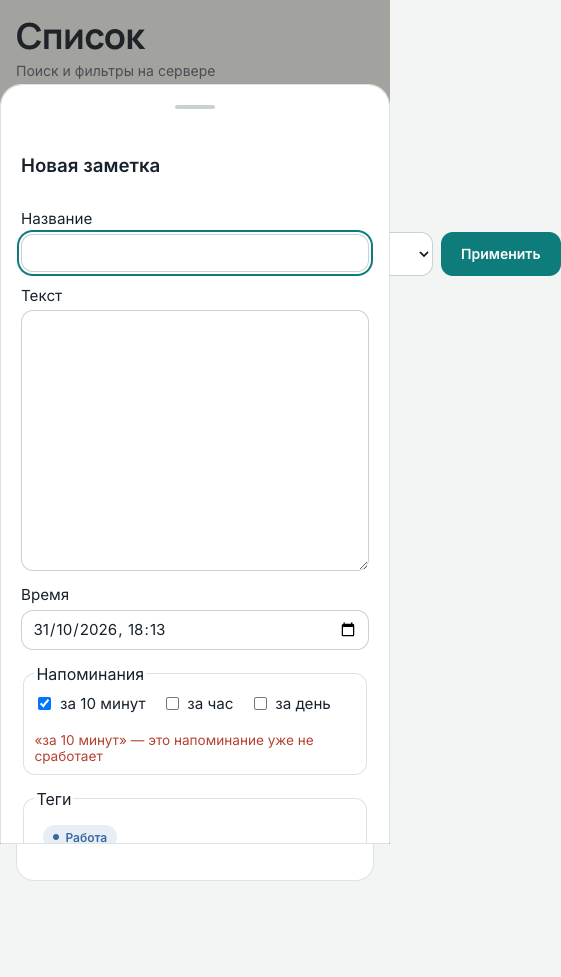
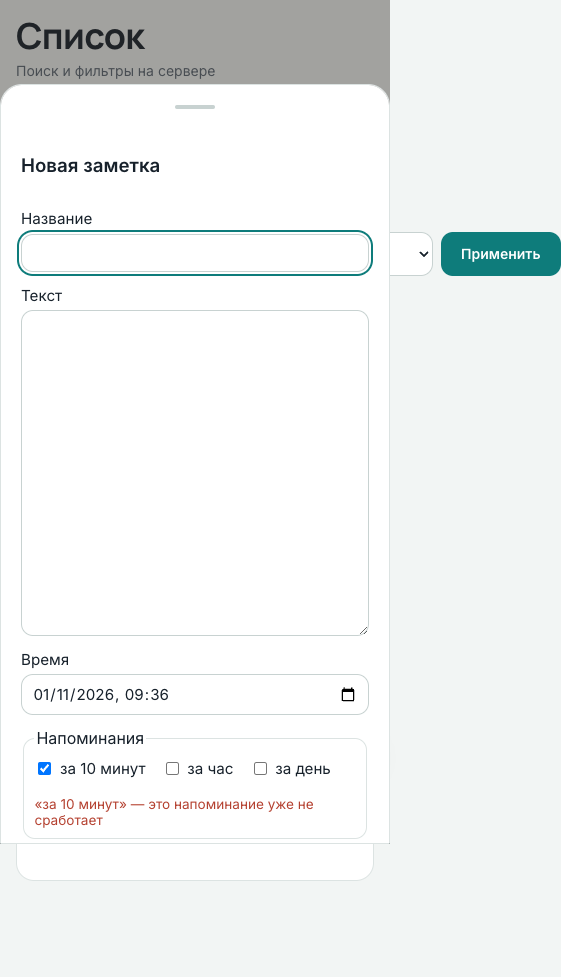
M11.1: STATUS — 71/43 passed, диаг-скрин календаря

Changed region(s): [[0.0303, 0.5834, 0.6667, 0.8598]]

diff --git a/STATUS.md b/STATUS.md
@@ -1,6 +1,6 @@
 # STATUS
 
-Обновляется в конце каждого этапа. Последнее обновление: 2026-11-01 14:50 +06.
+Обновляется в конце каждого этапа. Последнее обновление: 2026-11-01 15:34 +06.
 
 ## Этапы
 
@@ -19,6 +19,7 @@
 | M9 Вложения | готов | `test_attachment_*` + purge файлов; autosave+IndexedDB (D-057); `make test` → 52; e2e вкл. `e2e_attachment_*` / `e2e_autosave_*` |
 | M10 Общие заметки | готов | `test_share_*` / `test_realtime_event_reaches_member`; `e2e_two_users_shared_note`; `make test` → 57; `make e2e` → 40 |
 | M11 Звонки и видео | готов | stub 5 фраз + `test_extract_api` + parse vtt/srt; `e2e_call_transcript_extract` / `e2e_video_player_in_extract_panel`; UI D-072 |
+| M11.1 Стабилизация e2e | готов | 5 упавших e2e: календарные даты → «сегодня» (D-074); call extract → stub в `docker-compose.e2e.yml` (D-075) |
 
 ## Работает
 - `docker compose up --build` поднимает postgres, mailhog, api, worker, web.
@@ -32,7 +33,7 @@
 - `GET /api/calendar?from=&to=` — вхождения `{occurrence_start, note}` для одиночных (`rec_freq IS NULL`), не в корзине (D-017).
 - `GET /api/upcoming` — бакеты `today` / `week` / `past` по `Clock` + TZ пользователя; past только `active` (D-018).
 - Web: Календарь (FullCalendar 6: месяц/неделя/день, клик → боковая панель, DnD → PATCH с `version` и сохранением wall-time), «Ближайшее» (три секции), Список, Теги, Корзина, Настройки; время через `Intl` + `user.timezone`.
-- Тесты: `make test` → 66 passed на реальном Postgres (testcontainers); Playwright e2e → 42 passed (вкл. M10 share + M11 capture).
+- Тесты: `make test` → 71 passed на реальном Postgres (testcontainers); Playwright e2e → 43 passed (вкл. M10 share + M11 capture; стабилизация M11.1).
 - **Звонки/видео (M11):** `AI_PROVIDER=stub|openrouter`; `POST /api/extract` (+ `/transcript`, `/youtube`); поля `source`/`source_url`/`source_ts`/`ai_generated`; UI `/capture/call` и `/capture/video`; **субтитры YouTube** → extract → подтверждение; бейдж «создано ИИ». Конспект (D-068): главная мысль + заметки markdown-lite. Видео (D-069): по умолчанию только конспект. Пока ждём ответ — `AiThinkingPanel` (D-070). EN-ролик → выбор языка конспекта EN/RU (D-071, стабилизация D-073). UI видео (D-072): плеер слева от «Разобрать», без формы «к текущей секунде» и без таймкода в списке. Zoom API нет: только вставка/файл транскрипта или Web Speech в браузере.
 - **Общие заметки (M10):** `note_members`; владелец добавляет/удаляет по логину; участник видит список/календарь/«Ближайшее» с бейджем «Общая · владелец: …», правит (version→409), не удаляет и не делится; «Покинуть»; realtime на всех участников; уведомление «Вам открыт доступ»; чужой → 404.
 - **Вложения (M9):** `attachments` + том `uploads`; POST/GET/DELETE `/api/notes/{id}/attachments`; sniff типа; 10 МБ / 10 файлов; 413/415/404; soft-delete сохраняет файлы, purge 30д удаляет с диска; WS `attachment.added`/`deleted`; UI скрепка/DnD/превью; `NoteOut.has_attachments`.
@@ -226,6 +227,14 @@
 **Автоматически:**
 - Captions path: Innertube ANDROID (D-067); live smoke `Ok6QdZHCcI8` → ru/asr ~9k chars; `test_youtube_captions_xml_to_text`, `test_extract_youtube_uses_captions`; UI `e2e_video_captions_button_visible` / `e2e_video_player_in_extract_panel` (D-072).
 - Откат: захват вкладки / OpenRouter audio STT / Whisper в браузере (D-064/D-065) — заменено субтитрами (D-066).
+
+### Смоки M11.1 (2026-11-01)
+**Диагностика:** заметка `DiagToday` на `2026-11-01T12:00:00Z` → `/api/calendar` match 1; week view 1280×720 — `.fc-event` виден (`docs/design/screens/m11_1-diag-today-1280.png`). Продукт календаря ок; падения — устаревшие жёсткие даты октября + next→prev.
+**Исправлено:**
+- `format_hm` / `m7_ui`: `starts_at` = сегодня UTC; week nav prev-first (D-074).
+- `docker-compose.e2e.yml`: `AI_PROVIDER=stub`; `e2e_call_transcript_extract` ждёт `/api/extract` (D-075).
+- UI звонка не меняли.
+**Автоматически:** `make test` → **71 passed**; `make e2e` → **43 passed** (0 failed).
 
 ## Следующий заход
 - Web Push / Service Worker.
